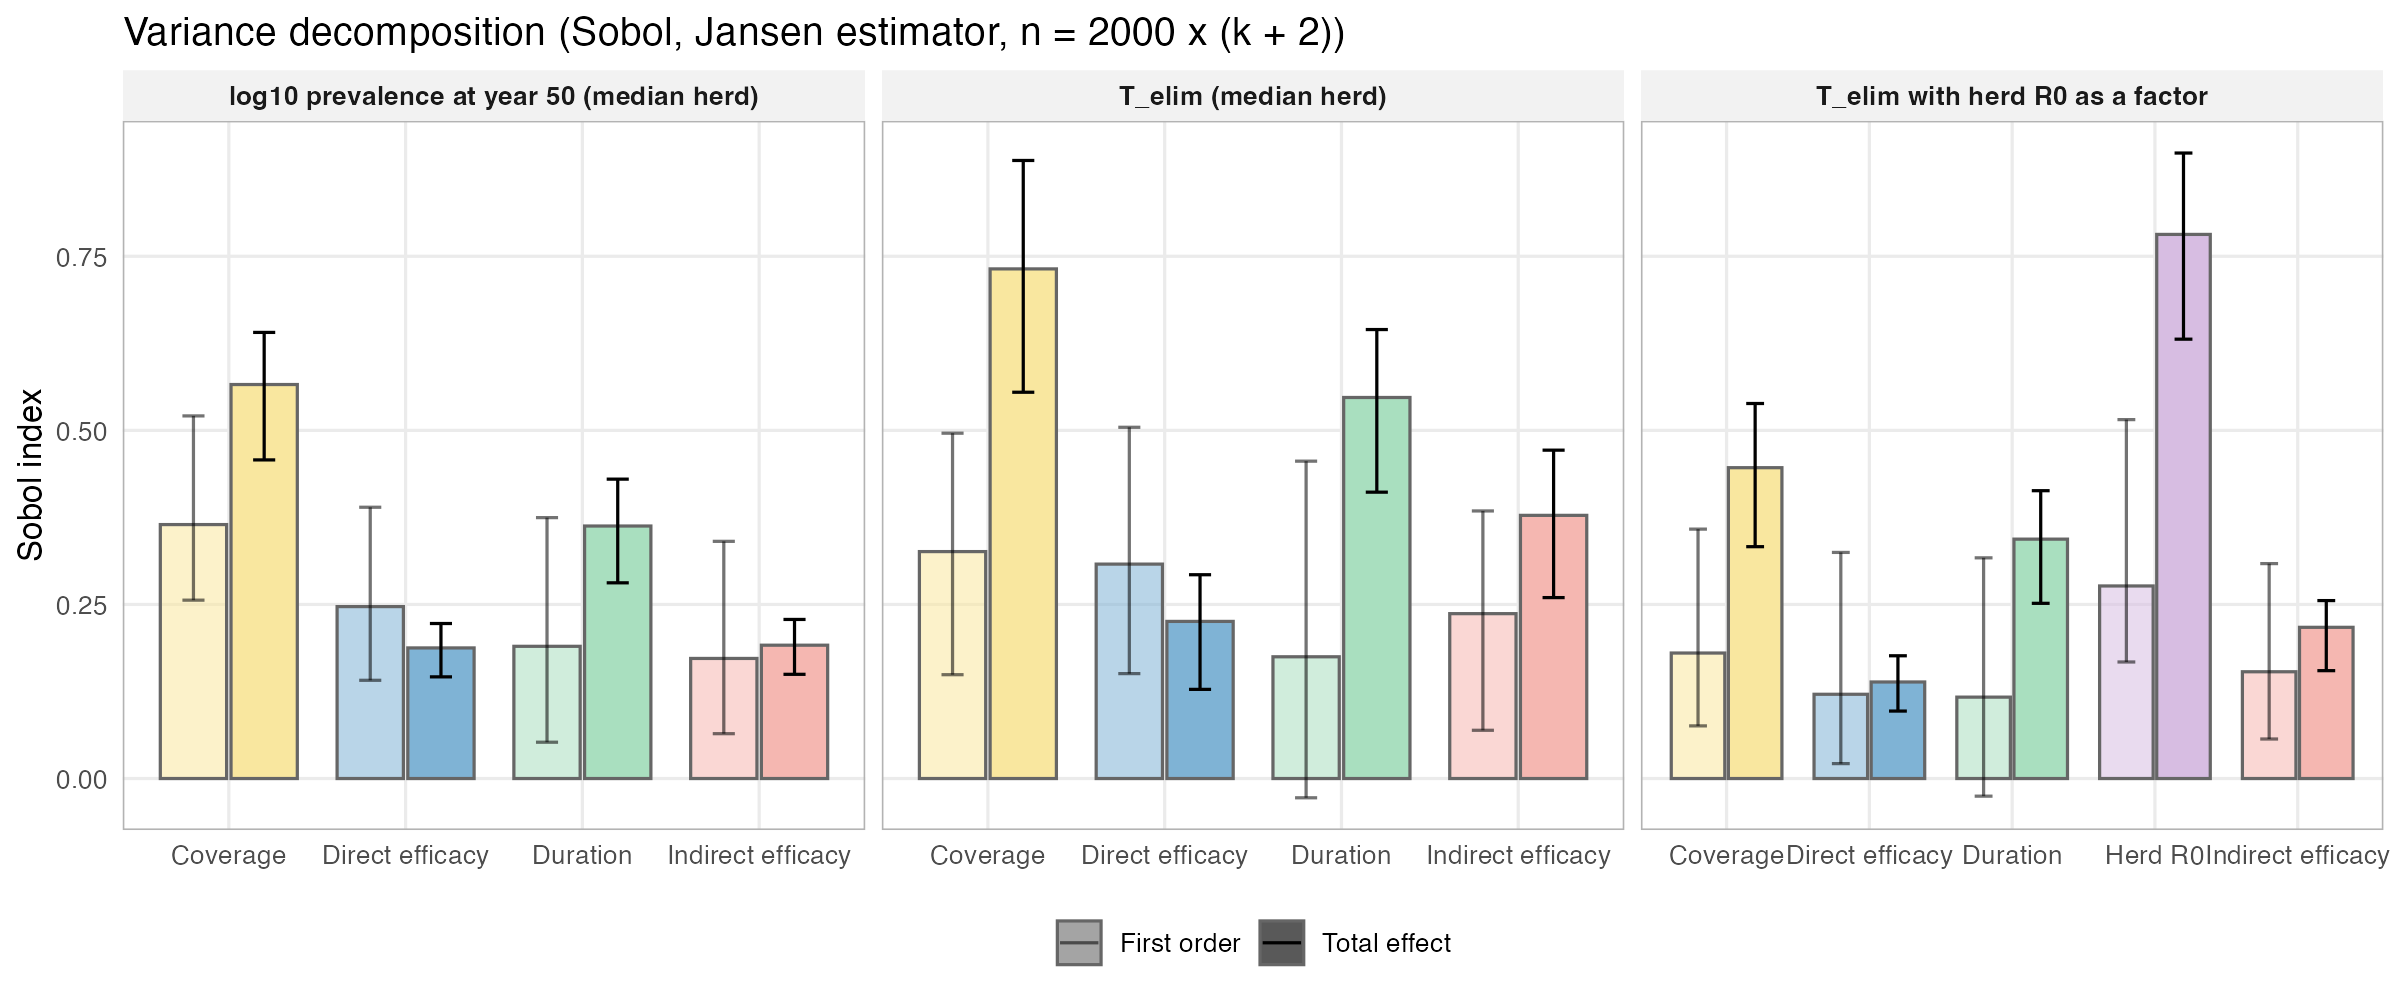
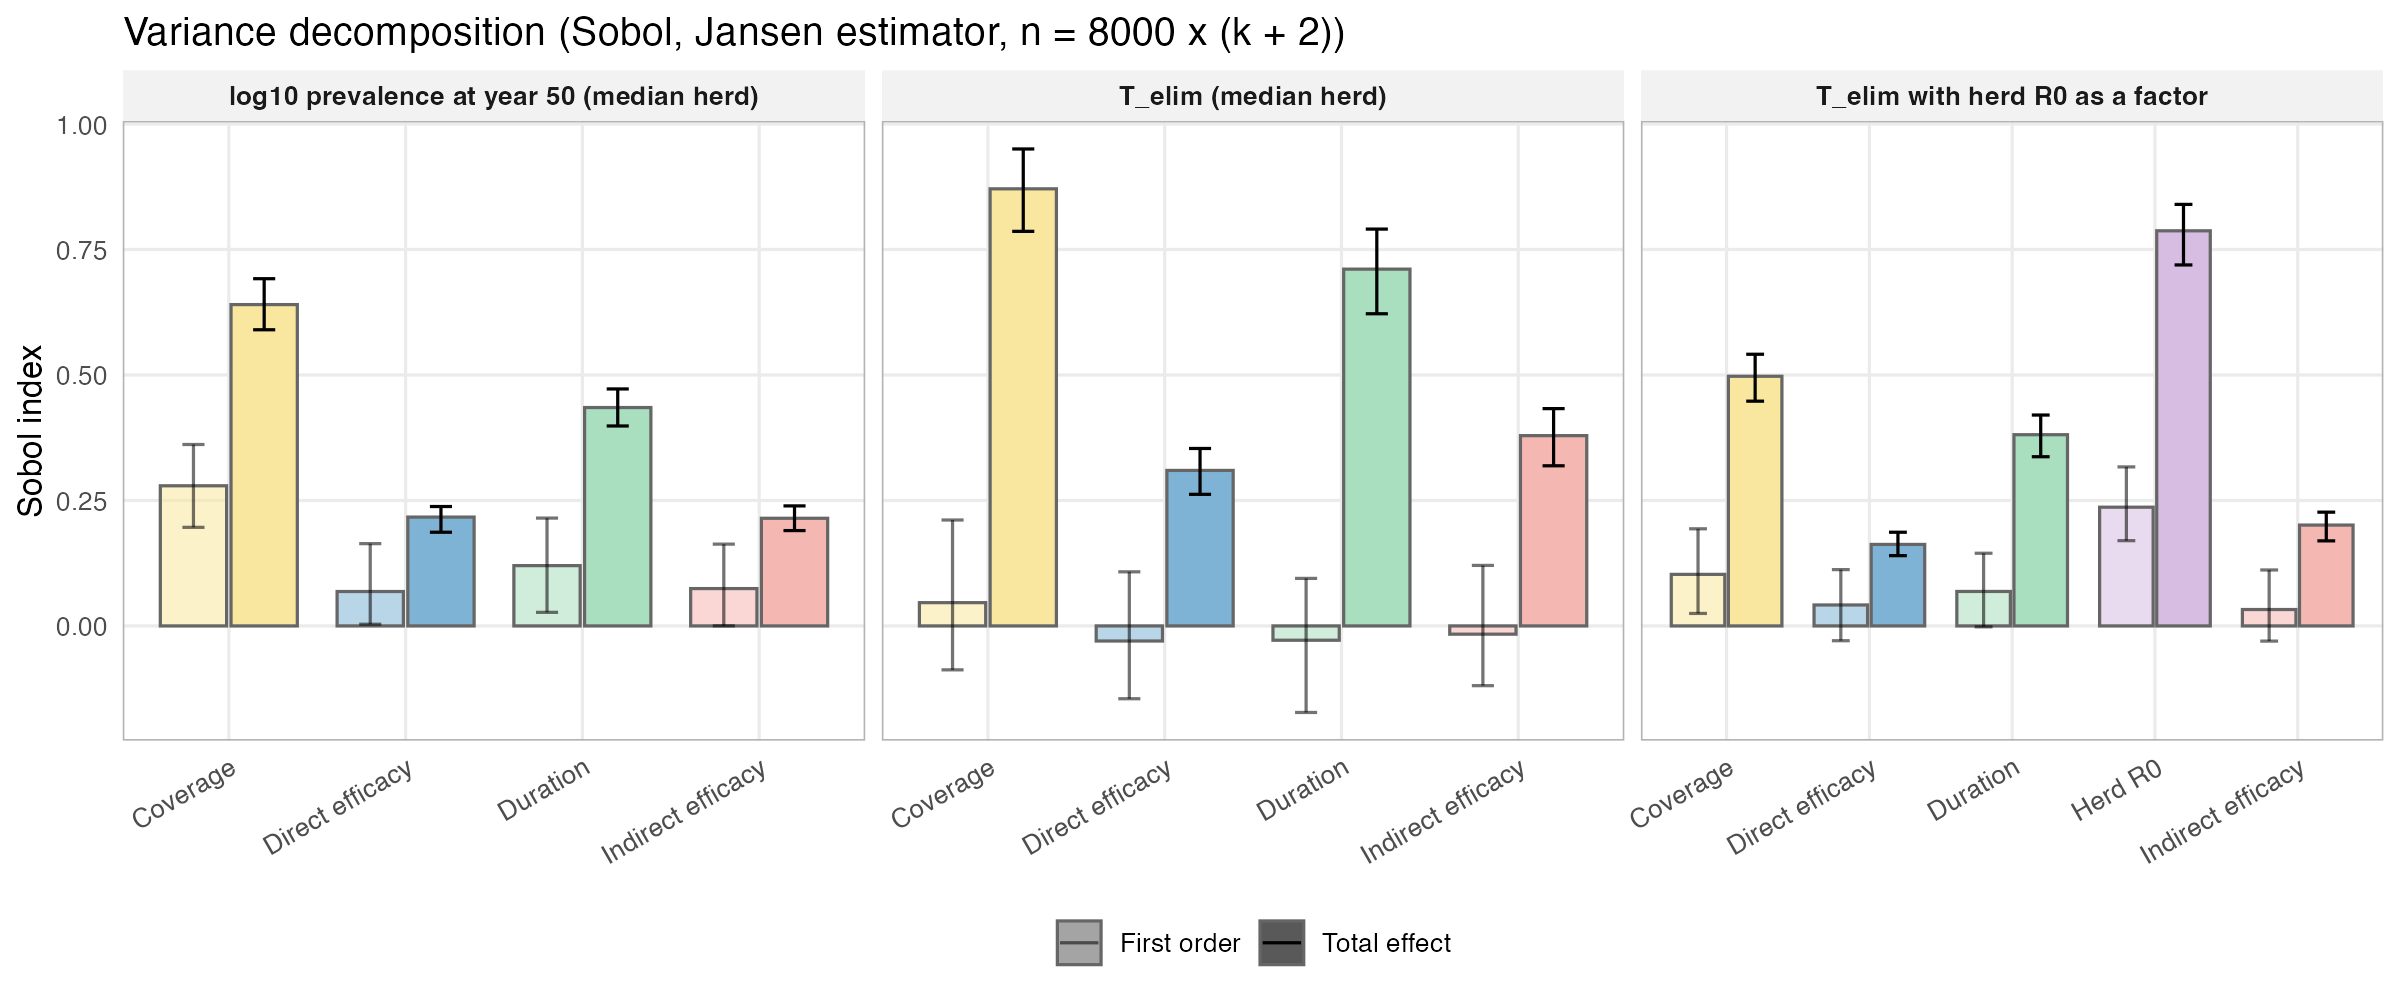
Increase Sobol sample to 8000 and report the indices

diff --git a/README.md b/README.md
@@ -123,11 +123,15 @@ R_v and with log10 prevalence at year 50 rank coverage first (-0.91 and
 direct efficacy (-0.70, -0.81). Over the sampled ranges only 5% of parameter
 combinations have R_v below 1, so time to elimination is censored in 96% of
 samples and its PRCCs are weak (-0.28 to -0.14) but in the same order. Sobol
-total-effect indices give the same ranking; first-order indices are small
-relative to total effects because the four inputs act through two products,
-(1 - e_s)(1 - e_i) and p u / (u + 1/D), so their effects are multiplicative,
-not additive. When herd R0 is added as a fifth factor over the observed
-range it has the largest total effect of all.
+total-effect indices for time to elimination give the same ranking: coverage
+0.87, duration 0.71, indirect efficacy 0.38, direct efficacy 0.31. First-order
+indices are close to zero because the four inputs act through two products,
+(1 - e_s)(1 - e_i) and p u / (u + 1/D), and through the R_v = 1 threshold,
+so almost all of the variance is interaction. For the uncensored outcome,
+log10 prevalence at year 50, the total effects are coverage 0.64, duration
+0.44, direct 0.22 and indirect 0.21. When herd R0 is added as a fifth factor
+over the observed range it has the largest total effect of all (0.79),
+ahead of coverage (0.50).
 
 Stochastic check. In the SimInf model the median herd of 44 animals reaches
 zero infected animals in a median of 23 years at the base case (IQR 18 to
